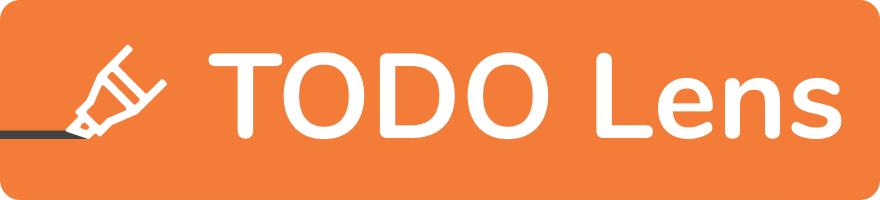
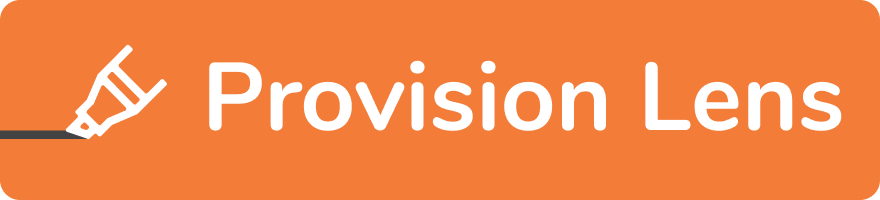
renamed project

Changed region(s): [[0.2148, 0.24, 0.9818, 0.72]]

diff --git a/src/common/Commands.ts b/src/common/Commands.ts
@@ -1,9 +1,9 @@
 import { commands, window, Selection, Range, Position, workspace, QuickPickItem, Command, Disposable } from 'vscode'
 import * as _ from 'lodash'
-import TodoBase from './TodoBase'
+import ProvisionBase from './ProvisionBase'
 import Annotations from './annotations/Annotations'
 
-export default class Commands extends TodoBase {
+export default class Commands extends ProvisionBase {
   private annotations : Annotations
 
   constructor(annotations : Annotations) {
@@ -16,7 +16,7 @@ export default class Commands extends TodoBase {
 	 */
   public get() : Array<Disposable> {
     // list all the notes from the current file in a dropdown
-    let list = commands.registerCommand('todolens.list', (args) => {
+    let list = commands.registerCommand('provisionlens.list', (args) => {
 			// get all the items
 			let arr : Array<QuickPickItem> = []
 			let an
@@ -58,14 +58,14 @@ export default class Commands extends TodoBase {
       })
     })
     
-    let last = commands.registerCommand('todolens.lastNote', () => {
+    let last = commands.registerCommand('provisionlens.lastNote', () => {
       let l = this.annotations.getPreviousNoteLocation()
       // return a info message if there are no notes found above the cursors position
       if(!l) return window.showInformationMessage(this.language.noNoteFound)
       this.moveToLine(l)
     })
 
-    let next = commands.registerCommand('todolens.nextNote', () => {
+    let next = commands.registerCommand('provisionlens.nextNote', () => {
       let l = this.annotations.getNextNoteLocation()
       // return a info message if there are no notes found below the cursors position
       if(!l) return window.showInformationMessage(this.language.noNoteFound)

diff --git a/src/lens/TodoLensProvider.ts b/src/lens/TodoLensProvider.ts
@@ -1,8 +1,8 @@
 import { workspace, CodeLensProvider, Range, Command, CodeLens, TextDocument, CancellationToken, window, OverviewRulerLane, Position } from 'vscode'
 import Annotations from '../common/annotations/Annotations'
-import TodoBase from '../common/TodoBase'
+import ProvisionBase from '../common/ProvisionBase'
 import DocumentReader from '../common/DocumentReader'
-export default class TodoLensProvider extends TodoBase implements CodeLensProvider {
+export default class provisionlensProvider extends ProvisionBase implements CodeLensProvider {
   private annotations : Annotations
   private reader : DocumentReader = new DocumentReader()
 
@@ -12,7 +12,7 @@ export default class TodoLensProvider extends TodoBase implements CodeLensProvid
   }
 
   async provideCodeLenses(doc : TextDocument) : Promise<CodeLens[]> {
-    this.settings = workspace.getConfiguration('todolens')
+    this.settings = workspace.getConfiguration('provisionlens')
     
     let lenses = []
 
@@ -64,7 +64,7 @@ export default class TodoLensProvider extends TodoBase implements CodeLensProvid
       if(s != null) {
         // add the lens for this group
         lenses.push(new CodeLens(r, {
-          command: "todolens.list",
+          command: "provisionlens.list",
           arguments: [{
             keywords: g.keywords,
             range: range

diff --git a/src/extension.ts b/src/extension.ts
@@ -1,11 +1,11 @@
 import {languages, window, QuickPickItem, Selection, workspace, Uri, FileSystemError, Range, Position} from 'vscode'
-import TodoLensProvider from './lens/TodoLensProvider'
+import provisionlensProvider from './lens/provisionlensProvider'
 import Annotations from './common/annotations/Annotations'
 import Highlighter from './syntax/Highlighter'
 import Commands from './common/Commands'
-import TodoBase from './common/TodoBase'
+import ProvisionBase from './common/ProvisionBase'
 
-const modules : TodoBase[] = []
+const modules : ProvisionBase[] = []
 
 var lens, highlight, commands, annotations, activeEditor
 
@@ -17,7 +17,7 @@ function activate(context) {
 	modules.push(annotations)
 	highlight = new Highlighter(annotations)
 	modules.push(highlight)
-	lens = new TodoLensProvider(annotations)
+	lens = new provisionlensProvider(annotations)
 	modules.push(lens)
 	commands = new Commands(annotations)
 	modules.push(commands)

diff --git a/src/common/ProvisionBase.ts b/src/common/ProvisionBase.ts
@@ -1,7 +1,7 @@
 import { workspace, window } from 'vscode'
 import Translations from './Translations'
 
-export default abstract class TodoBase {
+export default abstract class ProvisionBase {
   protected settings
   protected language
   constructor() {
@@ -9,7 +9,7 @@ export default abstract class TodoBase {
   }
   public update(){}
   public configChanged(){
-    this.settings = workspace.getConfiguration('todolens')
+    this.settings = workspace.getConfiguration('provisionlens')
     this.language = this.settings.get('translations', Translations.DEFAULT_TRANSLATIONS)
     Object.keys(Translations.DEFAULT_TRANSLATIONS).forEach(k => {
       if(!this.language[k]) this.language[k] = Translations.DEFAULT_TRANSLATIONS[k]

diff --git a/src/common/annotations/Annotations.ts b/src/common/annotations/Annotations.ts
@@ -1,10 +1,10 @@
 import { workspace, window, Range, Position, TextDocument } from 'vscode'
 import * as fs from 'fs'
-import TodoBase from '../TodoBase'
+import ProvisionBase from '../ProvisionBase'
 import Annotation from './Annotation'
 import { dirname } from 'path'
 
-export default class Annotations extends TodoBase {
+export default class Annotations extends ProvisionBase {
   private _ann = {}
   private ignored = []
 

diff --git a/src/syntax/Highlighter.ts b/src/syntax/Highlighter.ts
@@ -1,8 +1,8 @@
 import { window, OverviewRulerLane, workspace, Range, Position } from 'vscode'
 import Annotations from '../common/annotations/Annotations'
-import TodoBase from '../common/TodoBase'
+import ProvisionBase from '../common/ProvisionBase'
 
-export default class Highlighter extends TodoBase {
+export default class Highlighter extends ProvisionBase {
   private colors : Object
   private annotations : Annotations
 
